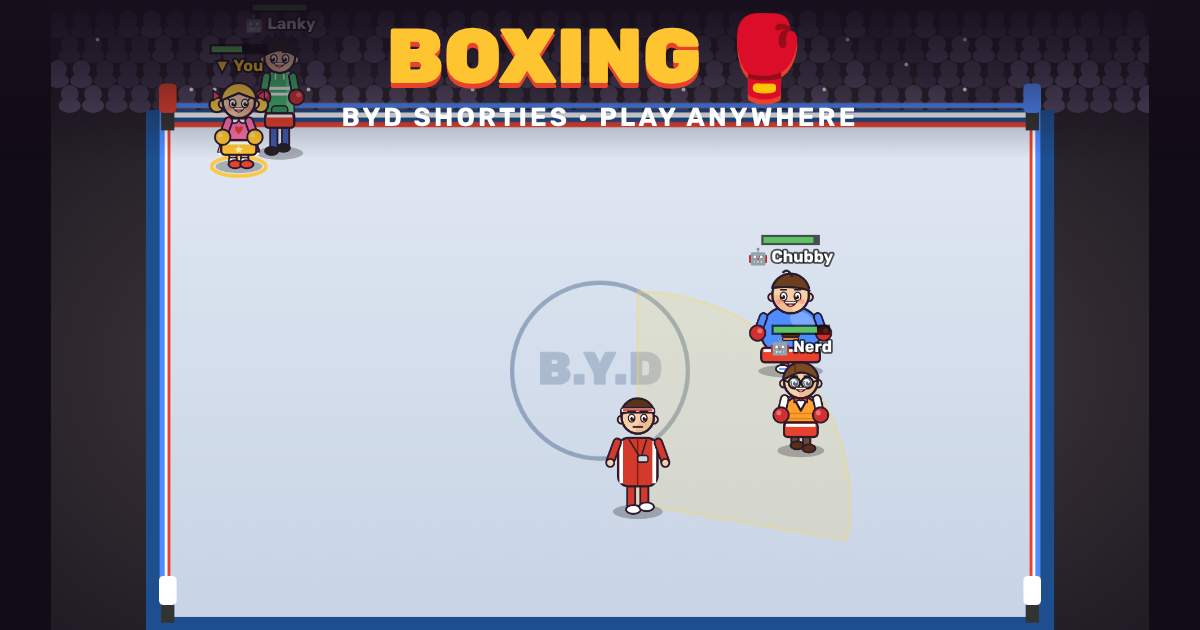
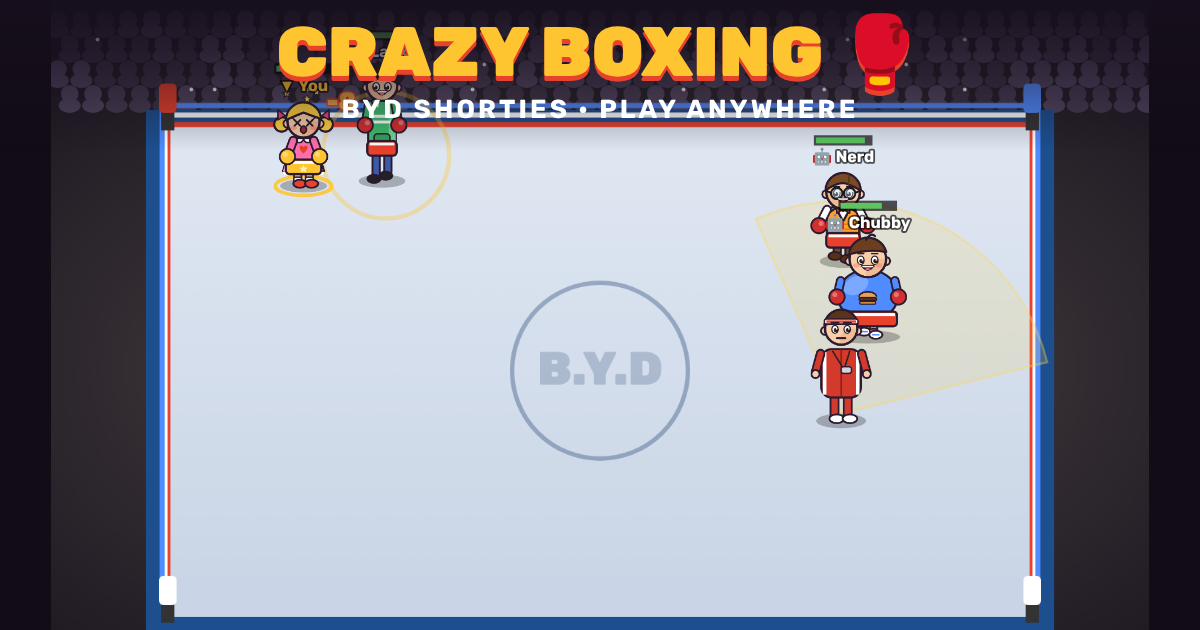
Названия: Crazy Boxing / Сумасшедший бокс / אגרוף משוגע; מי המרושע?
Claude-Session: https://claude.ai/code/session_01Ee1zkkg3PvpSc9RzLguxN7

Changed region(s): [[0.1542, 0.0, 0.8942, 0.8746], [0.3392, 0.3016, 0.37, 0.3317]]

diff --git a/burger/index.html b/burger/index.html
@@ -152,39 +152,39 @@ const params=new URLSearchParams(location.search);
 let FIXED=LOCS[params.get('loc')]?params.get('loc'):'diner';setLoc(FIXED);
 const DIRS={diner:'/burger/',school:'/school/',soccer:'/soccer/',snow:'/snow/',box:'/box/',villain:'/villain/'};
 const L={
- en:{shareV:(n,s)=>`In «Who is the Villain?» 🦹 ${n} won with ${s} stars! Can you spot the villain?`,trapB:'Trap',catchB:'Caught you!',youVil:'🦹 You are the villain!',findVil:'🔍 Find the villain',tipVil:'🦹 You are the villain! Pretend to search, tap 🪤 to drop an invisible trap, best next to keys. Others must not catch you!',tipCrew:'🔑 Collect 15 keys and avoid hidden traps. Think you know the villain? Run up and tap «Caught you!». Wrong guess — you freeze for 5 seconds',vmPark:'🎡 Fun park',vmSpace:'🚀 Space station',resKeys:'🔑 The team opened the exit!',resCaught:n=>`🫵 ${n} caught the villain!`,resTime:'🦹 The villain wins!',wasVil:'The villain was',trapsN:n=>`🪤 Trapped: ${n}`,caughtV:'CAUGHT!',wrongV:'Wrong one!',botsN:'Bots:',shopHintBox:'Each game has its own medals and shorts. Shorts work from the first fight.',shareBox:(n,s)=>`In «Boxing» 🥊 ${n} was the last one standing with ${s} HP! Who can beat that?`,tipBox:'🥊 Tap 💥 to punch. 🥚 «Low blow» hurts more, but only when the referee is looking away: caught twice — disqualified! Last one standing wins',pushBox:'Punch!',lowB:'Low blow',warn:'Warning!',dq:'Disqualified!',ko:'KNOCKOUT!',shopBox:'Shorts shop',noShorts:'No shorts',pickShorts:'Wear shorts next round?',shorts:{cap:'Lightning shorts',ushanka:'Padded shorts',top:'Ninja shorts',crown:'Golden shorts'},title:'Burger Rush',tag:'Up to 4 players. Grab, push, win!',join:'Join game',create:'Create game',name:'Your name',
+ en:{shareV:(n,s)=>`In «Who is the Villain?» 🦹 ${n} won with ${s} stars! Can you spot the villain?`,trapB:'Trap',catchB:'Caught you!',youVil:'🦹 You are the villain!',findVil:'🔍 Find the villain',tipVil:'🦹 You are the villain! Pretend to search, tap 🪤 to drop an invisible trap, best next to keys. Others must not catch you!',tipCrew:'🔑 Collect 15 keys and avoid hidden traps. Think you know the villain? Run up and tap «Caught you!». Wrong guess — you freeze for 5 seconds',vmPark:'🎡 Fun park',vmSpace:'🚀 Space station',resKeys:'🔑 The team opened the exit!',resCaught:n=>`🫵 ${n} caught the villain!`,resTime:'🦹 The villain wins!',wasVil:'The villain was',trapsN:n=>`🪤 Trapped: ${n}`,caughtV:'CAUGHT!',wrongV:'Wrong one!',botsN:'Bots:',shopHintBox:'Each game has its own medals and shorts. Shorts work from the first fight.',shareBox:(n,s)=>`In «Crazy Boxing» 🥊 ${n} was the last one standing with ${s} HP! Who can beat that?`,tipBox:'🥊 Tap 💥 to punch. 🥚 «Low blow» hurts more, but only when the referee is looking away: caught twice — disqualified! Last one standing wins',pushBox:'Punch!',lowB:'Low blow',warn:'Warning!',dq:'Disqualified!',ko:'KNOCKOUT!',shopBox:'Shorts shop',noShorts:'No shorts',pickShorts:'Wear shorts next round?',shorts:{cap:'Lightning shorts',ushanka:'Padded shorts',top:'Ninja shorts',crown:'Golden shorts'},title:'Burger Rush',tag:'Up to 4 players. Grab, push, win!',join:'Join game',create:'Create game',name:'Your name',
   needName:'Type your name so everyone knows who you are.',connecting:'Connecting…',errLib:'The connection library failed to load. Check your internet and refresh.',errConn:"Couldn't connect. Try again in a minute.",
   reload:'Refresh',room:'Room',hostHint:'Invite your friends. Everyone picks a hero.',invite:'Invite on WhatsApp',copy:'Copy link',copied:'Copied',
   waitHost:'Waiting for the host to tap «Start»…',pick:'Pick your hero',free:'free',bot:'bot',you:'you',bots:'Bots on free heroes',start:'Start!',full:'The room is full (4 players).',
   inviteText:"Let's play «Burger Rush» 🍔 ",push:'Push',winner:n=>`${n} is the champion!`,youWin:"You're the champion!",
   again:'Play again',lobbyBtn:'Back to room',againHost:'The host starts a new game',go:'GO!',share:'Brag',
-  shareText:(n,s)=>`In «Burger Rush» 🍔 ${n} won with ${s} burgers! Can you beat that?`,burgers:'burg.',createOwn:'Create your own game',roundN:n=>`Round ${n}`,loc:'Location',locs:{diner:'🍔 Diner',school:'🏫 Classroom',soccer:'⚽ Football',snow:'❄ Snow'},tipSnow:'❄ Tap «Snowball!» — it flies where you run. Hit someone — +1! Hide behind the snowmen. 🌟 The golden mega snowball gives +2. First to 10 hits',pushSnow:'Snowball!',mega:'MEGA SNOWBALL!',shareSnow:(n,s)=>`In «Snow Battle» ❄ ${n} landed ${s} hits! Who's the best shot?`,tipSoccer:'⚽ Run to the ball and tap «Kick!». Score past the goalkeeper! You can push your rivals',pushSoccer:'Kick!',goalTxt:'GOOOAL!',saveTxt:'Save!',shareSoccer:(n,s)=>`In «Bombardier» ⚽ ${n} scored ${s} goals! Who can score more?`,tipSchool:'🦶 Sneak up on a teacher from BEHIND and tap 💥 — kick! Teachers see everything in their cone: get spotted — go to the corner!',corner:'Corner!',ouch:'Ouch!',pushSchool:'Kick!',shareSchool:(n,s)=>`In «Teacher Kick» 🏫 ${n} kicked the teachers ${s} times! 😂 Can you beat that?`,rotate:'🔄 Turn your phone sideways — it plays better',full:'⛶ Full screen',tip:'🍔 Just run into a burger to eat it! 💥 pushes a rival',shop:'Hat shop',shopHint:'Each game has its own medals and hats. Hats work from round 2. In round 1 everyone is equal.',buy:n=>`Buy · ${n} 🏅`,wear:'Wear',wearing:'Wearing ✓',off:'Take off',noHat:'No hat',back:'Back',pickHat:'Wear a hat next round?',need:n=>`Need ${n} 🏅`,bought:'Bought!',hats:{cap:'Cap',ushanka:'Ushanka',top:'Top hat',crown:'Crown'},hatPerk:{cap:'Run 12% faster',ushanka:'Pushes and hits hurt you less',top:'Grab things from further away',crown:'Push harder, 💥 recharges faster'},hp:{diner:{cap:'Run 12% faster',ushanka:'Pushes hurt you less',top:'Burgers pull toward you: grab from afar',crown:'Push harder, 💥 recharges faster'},school:{cap:'Quick escape: half the time in the corner',ushanka:'Long kick: reach teachers from further away',top:'Ninja: teachers notice you only up close',crown:'Royal kick: every 3rd kick counts double'},soccer:{cap:'Cannon: your shots are 25% stronger',ushanka:'Wall: rivals can barely push you',top:'Long leg: kick the ball from further away',crown:'The goalkeeper misses your shots more often'},snow:{cap:'Quick hand: snowballs reload faster',ushanka:'Warm ears: you recover from hits faster',top:'Sniper: your snowballs fly faster and further',crown:'Every 4th snowball is a mega snowball'},box:{cap:'Move 12% faster',ushanka:'Low blows hurt you half as much',top:'The referee spots your low blows only up close',crown:'Your punches are 25% stronger'},villain:{cap:'Run 12% faster',ushanka:'Traps hold you half as long',top:'Keys pull toward you: grab from afar',crown:'A wrong catch freezes you for only 2 seconds'}},tie:'Tie! Replay',out:'Out',stay:'Still in',nextR:'Next round in a few seconds…',medalWin:n=>`🏅 +1 medal! You have ${n}`,medalHave:n=>`Your medals: 🏅 ${n}`,watching:"👀 You're out. Watch who wins!",hostGone:'The host left the game',noRoom:"The room isn't answering. The host probably closed the game.",ownHint:"Create your own room and invite friends. It's free.",allGames:'🎮 All games',leaveHost:'Leave? The game will end for everyone.',mt:{diner:'Burger Rush',school:'Teacher Kick',soccer:'Bombardier',snow:'Snow Battle',box:'Boxing',villain:"Who's the Villain?"},
+  shareText:(n,s)=>`In «Burger Rush» 🍔 ${n} won with ${s} burgers! Can you beat that?`,burgers:'burg.',createOwn:'Create your own game',roundN:n=>`Round ${n}`,loc:'Location',locs:{diner:'🍔 Diner',school:'🏫 Classroom',soccer:'⚽ Football',snow:'❄ Snow'},tipSnow:'❄ Tap «Snowball!» — it flies where you run. Hit someone — +1! Hide behind the snowmen. 🌟 The golden mega snowball gives +2. First to 10 hits',pushSnow:'Snowball!',mega:'MEGA SNOWBALL!',shareSnow:(n,s)=>`In «Snow Battle» ❄ ${n} landed ${s} hits! Who's the best shot?`,tipSoccer:'⚽ Run to the ball and tap «Kick!». Score past the goalkeeper! You can push your rivals',pushSoccer:'Kick!',goalTxt:'GOOOAL!',saveTxt:'Save!',shareSoccer:(n,s)=>`In «Bombardier» ⚽ ${n} scored ${s} goals! Who can score more?`,tipSchool:'🦶 Sneak up on a teacher from BEHIND and tap 💥 — kick! Teachers see everything in their cone: get spotted — go to the corner!',corner:'Corner!',ouch:'Ouch!',pushSchool:'Kick!',shareSchool:(n,s)=>`In «Teacher Kick» 🏫 ${n} kicked the teachers ${s} times! 😂 Can you beat that?`,rotate:'🔄 Turn your phone sideways — it plays better',full:'⛶ Full screen',tip:'🍔 Just run into a burger to eat it! 💥 pushes a rival',shop:'Hat shop',shopHint:'Each game has its own medals and hats. Hats work from round 2. In round 1 everyone is equal.',buy:n=>`Buy · ${n} 🏅`,wear:'Wear',wearing:'Wearing ✓',off:'Take off',noHat:'No hat',back:'Back',pickHat:'Wear a hat next round?',need:n=>`Need ${n} 🏅`,bought:'Bought!',hats:{cap:'Cap',ushanka:'Ushanka',top:'Top hat',crown:'Crown'},hatPerk:{cap:'Run 12% faster',ushanka:'Pushes and hits hurt you less',top:'Grab things from further away',crown:'Push harder, 💥 recharges faster'},hp:{diner:{cap:'Run 12% faster',ushanka:'Pushes hurt you less',top:'Burgers pull toward you: grab from afar',crown:'Push harder, 💥 recharges faster'},school:{cap:'Quick escape: half the time in the corner',ushanka:'Long kick: reach teachers from further away',top:'Ninja: teachers notice you only up close',crown:'Royal kick: every 3rd kick counts double'},soccer:{cap:'Cannon: your shots are 25% stronger',ushanka:'Wall: rivals can barely push you',top:'Long leg: kick the ball from further away',crown:'The goalkeeper misses your shots more often'},snow:{cap:'Quick hand: snowballs reload faster',ushanka:'Warm ears: you recover from hits faster',top:'Sniper: your snowballs fly faster and further',crown:'Every 4th snowball is a mega snowball'},box:{cap:'Move 12% faster',ushanka:'Low blows hurt you half as much',top:'The referee spots your low blows only up close',crown:'Your punches are 25% stronger'},villain:{cap:'Run 12% faster',ushanka:'Traps hold you half as long',top:'Keys pull toward you: grab from afar',crown:'A wrong catch freezes you for only 2 seconds'}},tie:'Tie! Replay',out:'Out',stay:'Still in',nextR:'Next round in a few seconds…',medalWin:n=>`🏅 +1 medal! You have ${n}`,medalHave:n=>`Your medals: 🏅 ${n}`,watching:"👀 You're out. Watch who wins!",hostGone:'The host left the game',noRoom:"The room isn't answering. The host probably closed the game.",ownHint:"Create your own room and invite friends. It's free.",allGames:'🎮 All games',leaveHost:'Leave? The game will end for everyone.',mt:{diner:'Burger Rush',school:'Teacher Kick',soccer:'Bombardier',snow:'Snow Battle',box:'Crazy Boxing',villain:"Who's the Villain?"},
   mtag:{diner:'Up to 4 players. 7 burgers per round: grab and push! Fewer than the leader — you are out, until one champion is left.',school:'Up to 4 players. Sneak up behind a teacher and kick! Get spotted — go to the corner. Most kicks wins.',soccer:'Up to 4 players. One ball, a big goal and the PE teacher in goal. Score the most and become champion!',snow:'Up to 4 players. Snowballs, snowmen to hide behind and a golden mega snowball. Best shot wins!',box:'Up to 4 players, all against all. Punch, dodge, and land a low blow when the referee is not looking. Caught twice — disqualified! Last one standing wins.',villain:'Up to 4 players. One of you is a secret villain who hides nasty traps. Collect 15 keys, avoid the traps and catch the villain!'},
   inviteM:{diner:"Let's play «Burger Rush» 🍔 Who grabs the most burgers? ",school:"Let's play «Teacher Kick» 🏫 Who kicks the teachers the most? ",soccer:"Let's play «Bombardier» ⚽ Who scores the most? ",snow:"Let's play «Snow Battle» ❄ Who's the best shot? ",box:"Let's box! 🥊 Last one standing wins: ",villain:"Let's play «Who's the Villain?» 🦹 Find the villain before it traps you: "},
   other:'EN',
   names:{girl:'Girl',fat:'Chubby',tall:'Lanky',nerd:'Nerd'},
   perks:{girl:'Fast and nimble',fat:'Slow, but pushes the hardest',tall:'The fastest, weak push',nerd:'Grabs things from afar'}},
- ru:{shareV:(n,s)=>`В «Кто злодей?» 🦹 победил(а) ${n}, звёзд: ${s}! А ты вычислишь злодея?`,trapB:'Капкан',catchB:'Поймал!',youVil:'🦹 Ты злодей!',findVil:'🔍 Найди злодея',tipVil:'🦹 Ты злодей! Делай вид, что ищешь ключи, жми 🪤 — оставишь невидимый капкан, лучше всего возле ключей. Главное, чтобы тебя не поймали!',tipCrew:'🔑 Собери 15 ключей и обходи невидимые капканы. Знаешь, кто злодей? Подбеги и жми «Поймал!». Ошибёшься — замрёшь на 5 секунд',vmPark:'🎡 Парк аттракционов',vmSpace:'🚀 Космическая станция',resKeys:'🔑 Команда открыла выход!',resCaught:n=>`🫵 ${n} поймал(а) злодея!`,resTime:'🦹 Злодей победил!',wasVil:'Злодеем был',trapsN:n=>`🪤 Попались в капканы: ${n}`,caughtV:'ПОЙМАЛ!',wrongV:'Мимо!',botsN:'Ботов:',shopHintBox:'В каждой игре свои медали и шорты. Шорты работают с первого боя.',shareBox:(n,s)=>`В «Боксе» 🥊 ${n} остался последним на ногах, жизни ${s}! Кто сильнее?`,tipBox:'🥊 Жми 💥 — удар. 🥚 «По яйцам» бьёт сильнее, но только пока судья отвернулся: заметит 2 раза — дисквалификация! Побеждает последний на ногах',pushBox:'Удар!',lowB:'По яйцам',warn:'Предупреждение!',dq:'Дисквалификация!',ko:'НОКАУТ!',shopBox:'Магазин шорт',noShorts:'Без шорт',pickShorts:'Надеть шорты на следующий раунд?',shorts:{cap:'Шорты-молнии',ushanka:'Шорты с защитой',top:'Шорты ниндзя',crown:'Золотые шорты'},title:'Бургер-гонка',tag:'До 4 игроков. На поле 7 бургеров. Хватай, толкайся! Кто собрал меньше лидера — вылетает, ничья — переигровка, пока не останется один чемпион.',join:'Войти в игру',create:'Создать игру',name:'Твоё имя',
+ ru:{shareV:(n,s)=>`В «Кто злодей?» 🦹 победил(а) ${n}, звёзд: ${s}! А ты вычислишь злодея?`,trapB:'Капкан',catchB:'Поймал!',youVil:'🦹 Ты злодей!',findVil:'🔍 Найди злодея',tipVil:'🦹 Ты злодей! Делай вид, что ищешь ключи, жми 🪤 — оставишь невидимый капкан, лучше всего возле ключей. Главное, чтобы тебя не поймали!',tipCrew:'🔑 Собери 15 ключей и обходи невидимые капканы. Знаешь, кто злодей? Подбеги и жми «Поймал!». Ошибёшься — замрёшь на 5 секунд',vmPark:'🎡 Парк аттракционов',vmSpace:'🚀 Космическая станция',resKeys:'🔑 Команда открыла выход!',resCaught:n=>`🫵 ${n} поймал(а) злодея!`,resTime:'🦹 Злодей победил!',wasVil:'Злодеем был',trapsN:n=>`🪤 Попались в капканы: ${n}`,caughtV:'ПОЙМАЛ!',wrongV:'Мимо!',botsN:'Ботов:',shopHintBox:'В каждой игре свои медали и шорты. Шорты работают с первого боя.',shareBox:(n,s)=>`В «Сумасшедшем боксе» 🥊 ${n} остался последним на ногах, жизни ${s}! Кто сильнее?`,tipBox:'🥊 Жми 💥 — удар. 🥚 «По яйцам» бьёт сильнее, но только пока судья отвернулся: заметит 2 раза — дисквалификация! Побеждает последний на ногах',pushBox:'Удар!',lowB:'По яйцам',warn:'Предупреждение!',dq:'Дисквалификация!',ko:'НОКАУТ!',shopBox:'Магазин шорт',noShorts:'Без шорт',pickShorts:'Надеть шорты на следующий раунд?',shorts:{cap:'Шорты-молнии',ushanka:'Шорты с защитой',top:'Шорты ниндзя',crown:'Золотые шорты'},title:'Бургер-гонка',tag:'До 4 игроков. На поле 7 бургеров. Хватай, толкайся! Кто собрал меньше лидера — вылетает, ничья — переигровка, пока не останется один чемпион.',join:'Войти в игру',create:'Создать игру',name:'Твоё имя',
   needName:'Напиши имя, чтобы все видели, кто ты.',connecting:'Подключаюсь…',errLib:'Не загрузилась библиотека связи. Проверь интернет и обнови страницу.',errConn:'Не получилось подключиться. Попробуй ещё раз через минуту.',
   reload:'Обновить',room:'Комната',hostHint:'Позови друзей. Каждый выбирает своего героя.',invite:'Позвать в WhatsApp',copy:'Копировать ссылку',copied:'Скопировано',
   waitHost:'Ждём, пока организатор нажмёт «Старт»…',pick:'Выбери героя',free:'свободно',bot:'бот',you:'ты',bots:'Боты на свободных героях',start:'Старт!',full:'Комната заполнена (4 игрока).',
   inviteText:'Го в «Бургер-гонку» 🍔 Кто соберёт больше бургеров за 30 секунд? ',push:'Толкнуть',winner:n=>`${n} — чемпион!`,youWin:'Ты чемпион!',
   again:'Ещё раз',lobbyBtn:'В комнату',againHost:'Новую игру запускает организатор',go:'ВПЕРЁД!',share:'Похвастаться',
-  shareText:(n,s)=>`В «Бургер-гонке» 🍔 победил(а) ${n} — ${s} бургеров! А ты сможешь больше?`,burgers:'бург.',createOwn:'Создать свою игру',roundN:n=>`Раунд ${n}`,loc:'Локация',locs:{diner:'🍔 Бургерная',school:'🏫 Класс',soccer:'⚽ Футбол',snow:'❄ Снежки'},tipSnow:'❄ Жми «Снежок!» — летит туда, куда бежишь. Попал — +1! Прячься за снеговиками. 🌟 Золотой мега-снежок даёт +2. До 10 попаданий',pushSnow:'Снежок!',mega:'МЕГА-СНЕЖОК!',shareSnow:(n,s)=>`В «Снежной битве» ❄ ${n} попал(а) ${s} раз! Кто метче?`,tipSoccer:'⚽ Подбеги к мячу и жми «Удар!». Забей мимо вратаря! Соперников можно толкать',pushSoccer:'Удар!',goalTxt:'ГОООЛ!',saveTxt:'Сейв!',shareSoccer:(n,s)=>`В «Бомбардире» ⚽ ${n} забил(а) ${s} голов! Кто сможет больше?`,tipSchool:'🦶 Подкрадись к учителю СЗАДИ и жми 💥 — поджопник! Учитель видит всё в своём конусе: заметит — в угол!',corner:'В угол!',ouch:'Ай!',pushSchool:'Пинок!',shareSchool:(n,s)=>`В «Teacher Kick» 🏫 ${n} отвесил(а) учителям ${s} поджопников! 😂 А ты сможешь?`,rotate:'🔄 Поверни телефон горизонтально, так удобнее',full:'⛶ На весь экран',tip:'🍔 Подбеги к бургеру, и он съестся сам! 💥 толкает соперника',shop:'Магазин шапок',shopHint:'В каждой игре свои медали и шапки. Шапки начинают действовать со 2-го раунда. В 1-м раунде все на равных.',buy:n=>`Купить · ${n} 🏅`,wear:'Надеть',wearing:'Надета ✓',off:'Снять',noHat:'Без шапки',back:'Назад',pickHat:'Надеть шапку на следующий раунд?',need:n=>`Нужно ${n} 🏅`,bought:'Куплено!',hats:{cap:'Кепка',ushanka:'Ушанка',top:'Цилиндр',crown:'Корона'},hatPerk:{cap:'Бегаешь на 12% быстрее',ushanka:'Тебя толкают слабее, звёздочки проходят быстрее',top:'Бургеры притягиваются: хватаешь издалека',crown:'Толкаешь сильнее, 💥 перезаряжается быстрее'},hp:{diner:{cap:'Бегаешь на 12% быстрее',ushanka:'Тебя толкают слабее, звёздочки проходят быстрее',top:'Бургеры притягиваются: хватаешь издалека',crown:'Толкаешь сильнее, 💥 перезаряжается быстрее'},school:{cap:'Шустрик: в углу стоишь вдвое меньше',ushanka:'Длинный пинок: достаёшь учителя издалека',top:'Невидимка: учителя замечают тебя только вблизи',crown:'Королевский пинок: каждый 3-й пинок считается за два'},soccer:{cap:'Пушка: удар на 25% сильнее',ushanka:'Стенка: тебя почти не сдвинуть',top:'Длинная нога: бьёшь по мячу издалека',crown:'Вратарь чаще пропускает твои удары'},snow:{cap:'Быстрая рука: снежки перезаряжаются быстрее',ushanka:'Тёплые уши: после попадания приходишь в себя быстрее',top:'Снайпер: твои снежки летят быстрее и дальше',crown:'Каждый 4-й снежок — мега-снежок'},box:{cap:'Двигаешься на 12% быстрее',ushanka:'Удары по яйцам тебе вдвое слабее',top:'Судья замечает твой подлый удар только вблизи',crown:'Твои удары на 25% сильнее'},villain:{cap:'Бегаешь на 12% быстрее',ushanka:'Капканы держат тебя вдвое меньше',top:'Ключи притягиваются: хватаешь издалека',crown:'Ошибся с поимкой — замираешь всего на 2 секунды'}},tie:'Ничья! Переигровка',out:'Вылетают',stay:'Играют дальше',nextR:'Следующий раунд через пару секунд…',medalWin:n=>`🏅 +1 медаль! Всего у тебя: ${n}`,medalHave:n=>`Твои медали: 🏅 ${n}`,watching:'👀 Ты вылетел. Смотри, кто победит!',hostGone:'Организатор вышел из игры',noRoom:'Комната не отвечает. Похоже, организатор уже закрыл игру.',ownHint:'Создай свою комнату и позови друзей. Это бесплатно.',allGames:'🎮 Все игры',leaveHost:'Выйти? Игра закончится у всех.',mt:{diner:'Бургер-гонка',school:'Teacher Kick',soccer:'Бомбардир',snow:'Снежная битва',box:'Бокс',villain:'Кто злодей?'},
+  shareText:(n,s)=>`В «Бургер-гонке» 🍔 победил(а) ${n} — ${s} бургеров! А ты сможешь больше?`,burgers:'бург.',createOwn:'Создать свою игру',roundN:n=>`Раунд ${n}`,loc:'Локация',locs:{diner:'🍔 Бургерная',school:'🏫 Класс',soccer:'⚽ Футбол',snow:'❄ Снежки'},tipSnow:'❄ Жми «Снежок!» — летит туда, куда бежишь. Попал — +1! Прячься за снеговиками. 🌟 Золотой мега-снежок даёт +2. До 10 попаданий',pushSnow:'Снежок!',mega:'МЕГА-СНЕЖОК!',shareSnow:(n,s)=>`В «Снежной битве» ❄ ${n} попал(а) ${s} раз! Кто метче?`,tipSoccer:'⚽ Подбеги к мячу и жми «Удар!». Забей мимо вратаря! Соперников можно толкать',pushSoccer:'Удар!',goalTxt:'ГОООЛ!',saveTxt:'Сейв!',shareSoccer:(n,s)=>`В «Бомбардире» ⚽ ${n} забил(а) ${s} голов! Кто сможет больше?`,tipSchool:'🦶 Подкрадись к учителю СЗАДИ и жми 💥 — поджопник! Учитель видит всё в своём конусе: заметит — в угол!',corner:'В угол!',ouch:'Ай!',pushSchool:'Пинок!',shareSchool:(n,s)=>`В «Teacher Kick» 🏫 ${n} отвесил(а) учителям ${s} поджопников! 😂 А ты сможешь?`,rotate:'🔄 Поверни телефон горизонтально, так удобнее',full:'⛶ На весь экран',tip:'🍔 Подбеги к бургеру, и он съестся сам! 💥 толкает соперника',shop:'Магазин шапок',shopHint:'В каждой игре свои медали и шапки. Шапки начинают действовать со 2-го раунда. В 1-м раунде все на равных.',buy:n=>`Купить · ${n} 🏅`,wear:'Надеть',wearing:'Надета ✓',off:'Снять',noHat:'Без шапки',back:'Назад',pickHat:'Надеть шапку на следующий раунд?',need:n=>`Нужно ${n} 🏅`,bought:'Куплено!',hats:{cap:'Кепка',ushanka:'Ушанка',top:'Цилиндр',crown:'Корона'},hatPerk:{cap:'Бегаешь на 12% быстрее',ushanka:'Тебя толкают слабее, звёздочки проходят быстрее',top:'Бургеры притягиваются: хватаешь издалека',crown:'Толкаешь сильнее, 💥 перезаряжается быстрее'},hp:{diner:{cap:'Бегаешь на 12% быстрее',ushanka:'Тебя толкают слабее, звёздочки проходят быстрее',top:'Бургеры притягиваются: хватаешь издалека',crown:'Толкаешь сильнее, 💥 перезаряжается быстрее'},school:{cap:'Шустрик: в углу стоишь вдвое меньше',ushanka:'Длинный пинок: достаёшь учителя издалека',top:'Невидимка: учителя замечают тебя только вблизи',crown:'Королевский пинок: каждый 3-й пинок считается за два'},soccer:{cap:'Пушка: удар на 25% сильнее',ushanka:'Стенка: тебя почти не сдвинуть',top:'Длинная нога: бьёшь по мячу издалека',crown:'Вратарь чаще пропускает твои удары'},snow:{cap:'Быстрая рука: снежки перезаряжаются быстрее',ushanka:'Тёплые уши: после попадания приходишь в себя быстрее',top:'Снайпер: твои снежки летят быстрее и дальше',crown:'Каждый 4-й снежок — мега-снежок'},box:{cap:'Двигаешься на 12% быстрее',ushanka:'Удары по яйцам тебе вдвое слабее',top:'Судья замечает твой подлый удар только вблизи',crown:'Твои удары на 25% сильнее'},villain:{cap:'Бегаешь на 12% быстрее',ushanka:'Капканы держат тебя вдвое меньше',top:'Ключи притягиваются: хватаешь издалека',crown:'Ошибся с поимкой — замираешь всего на 2 секунды'}},tie:'Ничья! Переигровка',out:'Вылетают',stay:'Играют дальше',nextR:'Следующий раунд через пару секунд…',medalWin:n=>`🏅 +1 медаль! Всего у тебя: ${n}`,medalHave:n=>`Твои медали: 🏅 ${n}`,watching:'👀 Ты вылетел. Смотри, кто победит!',hostGone:'Организатор вышел из игры',noRoom:'Комната не отвечает. Похоже, организатор уже закрыл игру.',ownHint:'Создай свою комнату и позови друзей. Это бесплатно.',allGames:'🎮 Все игры',leaveHost:'Выйти? Игра закончится у всех.',mt:{diner:'Бургер-гонка',school:'Teacher Kick',soccer:'Бомбардир',snow:'Снежная битва',box:'Сумасшедший бокс',villain:'Кто злодей?'},
   mtag:{diner:'До 4 игроков. 7 бургеров на раунд: хватай и толкайся! Кто меньше лидера — вылетает, пока не останется один чемпион.',school:'До 4 игроков. Подкрадись к учителю сзади и отвесь поджопник! Попадёшься ему на глаза — в угол. Кто больше всех — чемпион.',soccer:'До 4 игроков. Один мяч, большие ворота и вратарь-физрук. Забей больше всех и стань чемпионом!',snow:'До 4 игроков. Снежки, снеговики-укрытия и золотой мега-снежок. Самый меткий — чемпион!',box:'До 4 игроков, все против всех. Бей, уворачивайся и бей по яйцам, когда судья отвернулся. Заметит 2 раза — дисквалификация! Побеждает последний на ногах.',villain:'До 4 игроков. Один из вас тайный злодей и прячет капканы с гадостями. Соберите 15 ключей, обходите ловушки и поймайте злодея!'},
   inviteM:{diner:'Го в «Бургер-гонку» 🍔 Кто соберёт больше бургеров? ',school:'Го в «Teacher Kick» 🏫 Кто отвесит учителям больше поджопников? ',soccer:'Го в «Бомбардир» ⚽ Кто забьёт больше голов? ',snow:'Го в «Снежную битву» ❄ Кто самый меткий? ',box:'Го боксировать! 🥊 Побеждает последний на ногах: ',villain:'Го в «Кто злодей?» 🦹 Найди злодея, пока он не поймал тебя в капкан: '},
   other:'עברית',
   names:{girl:'Девочка',fat:'Пухляш',tall:'Длинный',nerd:'Очкарик'},
   perks:{girl:'Быстрая и ловкая',fat:'Медленный, но толкается сильнее всех',tall:'Самый быстрый, толкается слабо',nerd:'Хватает бургеры издалека'}},
- he:{shareV:(n,s)=>`ב«מי הנבל?» 🦹 ניצח/ה ${n} עם ${s} כוכבים! תצליחו לגלות את הנבל?`,trapB:'מלכודת',catchB:'תפסתי!',youVil:'🦹 אתה הנבל!',findVil:'🔍 מצאו את הנבל',tipVil:'🦹 אתה הנבל! תעשה כאילו אתה מחפש מפתחות, לחץ 🪤 ותשאיר מלכודת בלתי נראית, הכי טוב ליד מפתחות. העיקר שלא יתפסו אותך!',tipCrew:'🔑 אספו 15 מפתחות והיזהרו ממלכודות נסתרות. יודעים מי הנבל? רוצו אליו ולחצו «תפסתי!». טעיתם — קופאים ל־5 שניות',vmPark:'🎡 פארק שעשועים',vmSpace:'🚀 תחנת חלל',resKeys:'🔑 הקבוצה פתחה את היציאה!',resCaught:n=>`🫵 ${n} תפס/ה את הנבל!`,resTime:'🦹 הנבל ניצח!',wasVil:'הנבל היה',trapsN:n=>`🪤 נלכדו: ${n}`,caughtV:'נתפס!',wrongV:'לא הוא!',botsN:'בוטים:',shopHintBox:'לכל משחק מדליות ומכנסונים משלו. המכנסונים עובדים מהקרב הראשון.',shareBox:(n,s)=>`ב«אגרוף» 🥊 ${n} נשאר/ה אחרון/ה על הרגליים עם ${s} חיים! מי חזק יותר?`,tipBox:'🥊 לחצו 💥 — מכה. 🥚 «מכה נמוכה» חזקה יותר, אבל רק כשהשופט לא מסתכל: נתפסתם פעמיים — פסילה! האחרון שעומד מנצח',pushBox:'מכה!',lowB:'מכה נמוכה',warn:'אזהרה!',dq:'פסילה!',ko:'נוקאאוט!',shopBox:'חנות המכנסונים',noShorts:'בלי מכנסונים',pickShorts:'ללבוש מכנסונים לסיבוב הבא?',shorts:{cap:'מכנסוני ברק',ushanka:'מכנסונים מרופדים',top:'מכנסוני נינג׳ה',crown:'מכנסוני זהב'},title:'מרוץ ההמבורגרים',tag:'עד 4 שחקנים. 7 המבורגרים על הרצפה. תופסים ודוחפים! מי שאסף פחות מהמוביל — יוצא, בתיקו — סיבוב נוסף, עד שנשאר אלוף אחד.',join:'כניסה למשחק',create:'יצירת משחק',name:'השם שלך',
+ he:{shareV:(n,s)=>`ב«מי המרושע?» 🦹 ניצח/ה ${n} עם ${s} כוכבים! תצליחו לגלות את המרושע?`,trapB:'מלכודת',catchB:'תפסתי!',youVil:'🦹 אתה המרושע!',findVil:'🔍 מצאו את המרושע',tipVil:'🦹 אתה המרושע! תעשה כאילו אתה מחפש מפתחות, לחץ 🪤 ותשאיר מלכודת בלתי נראית, הכי טוב ליד מפתחות. העיקר שלא יתפסו אותך!',tipCrew:'🔑 אספו 15 מפתחות והיזהרו ממלכודות נסתרות. יודעים מי המרושע? רוצו אליו ולחצו «תפסתי!». טעיתם — קופאים ל־5 שניות',vmPark:'🎡 פארק שעשועים',vmSpace:'🚀 תחנת חלל',resKeys:'🔑 הקבוצה פתחה את היציאה!',resCaught:n=>`🫵 ${n} תפס/ה את המרושע!`,resTime:'🦹 המרושע ניצח!',wasVil:'המרושע היה',trapsN:n=>`🪤 נלכדו: ${n}`,caughtV:'נתפס!',wrongV:'לא הוא!',botsN:'בוטים:',shopHintBox:'לכל משחק מדליות ומכנסונים משלו. המכנסונים עובדים מהקרב הראשון.',shareBox:(n,s)=>`ב«אגרוף משוגע» 🥊 ${n} נשאר/ה אחרון/ה על הרגליים עם ${s} חיים! מי חזק יותר?`,tipBox:'🥊 לחצו 💥 — מכה. 🥚 «מכה נמוכה» חזקה יותר, אבל רק כשהשופט לא מסתכל: נתפסתם פעמיים — פסילה! האחרון שעומד מנצח',pushBox:'מכה!',lowB:'מכה נמוכה',warn:'אזהרה!',dq:'פסילה!',ko:'נוקאאוט!',shopBox:'חנות המכנסונים',noShorts:'בלי מכנסונים',pickShorts:'ללבוש מכנסונים לסיבוב הבא?',shorts:{cap:'מכנסוני ברק',ushanka:'מכנסונים מרופדים',top:'מכנסוני נינג׳ה',crown:'מכנסוני זהב'},title:'מרוץ ההמבורגרים',tag:'עד 4 שחקנים. 7 המבורגרים על הרצפה. תופסים ודוחפים! מי שאסף פחות מהמוביל — יוצא, בתיקו — סיבוב נוסף, עד שנשאר אלוף אחד.',join:'כניסה למשחק',create:'יצירת משחק',name:'השם שלך',
   needName:'כתבו שם, כדי שכולם יידעו מי אתם.',connecting:'מתחבר…',errLib:'ספריית החיבור לא נטענה. בדקו את האינטרנט ורעננו.',errConn:'לא הצלחנו להתחבר. נסו שוב בעוד דקה.',
   reload:'רענון',room:'חדר',hostHint:'הזמינו חברים. כל אחד בוחר דמות.',invite:'הזמנה בוואטסאפ',copy:'העתקת קישור',copied:'הועתק',
   waitHost:'מחכים שהמארגן ילחץ «התחלה»…',pick:'בחרו דמות',free:'פנוי',bot:'בוט',you:'אני',bots:'בוטים על דמויות פנויות',start:'התחלה!',full:'החדר מלא (4 שחקנים).',
   inviteText:'בואו ל«מרוץ ההמבורגרים» 🍔 מי יאסוף הכי הרבה המבורגרים ב־30 שניות? ',push:'דחיפה',winner:n=>`${n} — האלוף!`,youWin:'אתה האלוף!',
   again:'עוד פעם',lobbyBtn:'לחדר',againHost:'משחק חדש מפעיל המארגן',go:'!קדימה',share:'להשוויץ',
-  shareText:(n,s)=>`ב«מרוץ ההמבורגרים» 🍔 ניצח/ה ${n} עם ${s} המבורגרים! תוכלו יותר?`,burgers:'המב׳',createOwn:'ליצור משחק משלי',roundN:n=>`סיבוב ${n}`,loc:'מקום',locs:{diner:'🍔 ההמבורגרייה',school:'🏫 הכיתה',soccer:'⚽ כדורגל',snow:'❄ כדורי שלג'},tipSnow:'❄ לחצו «כדור שלג!» — הוא עף לכיוון הריצה. פגעתם — 1+! תתחבאו מאחורי אנשי השלג. 🌟 כדור הזהב נותן 2+',pushSnow:'כדור שלג!',mega:'!מגה־כדור',shareSnow:(n,s)=>`ב«קרב כדורי שלג» ❄ ${n} פגע/ה ${s} פעמים! מי יותר מדויק?`,tipSoccer:'⚽ רוצו לכדור ולחצו «בעיטה!». תבקיעו ליד השוער! אפשר לדחוף יריבים',pushSoccer:'בעיטה!',goalTxt:'!גוללל',saveTxt:'!הצלה',shareSoccer:(n,s)=>`ב«בומברדיר» ⚽ ${n} הבקיע/ה ${s} גולים! מי יבקיע יותר?`,tipSchool:'🦶 התגנבו למורה מאחור ולחצו 💥 — בעיטה בטוסיק! המורה רואה כל מה שבתוך המשולש שלו: יראה אתכם — לפינה!',corner:'לפינה!',ouch:'אוי!',pushSchool:'בעיטה!',shareSchool:(n,s)=>`ב«Teacher Kick» 🏫 ${n} נתן/ה למורים ${s} בעיטות בטוסיק! 😂 תוכלו יותר?`,rotate:'🔄 סובבו את הטלפון לרוחב, ככה נוח יותר',full:'⛶ מסך מלא',tip:'🍔 רוצו אל ההמבורגר והוא נאכל לבד! 💥 דוחף יריב',shop:'חנות הכובעים',shopHint:'לכל משחק מדליות וכובעים משלו. הכובעים פועלים מהסיבוב השני. בסיבוב הראשון כולם שווים.',buy:n=>`לקנות · ${n} 🏅`,wear:'לחבוש',wearing:'חבוש ✓',off:'להוריד',noHat:'בלי כובע',back:'חזרה',pickHat:'לחבוש כובע לסיבוב הבא?',need:n=>`צריך ${n} 🏅`,bought:'נקנה!',hats:{cap:'כובע מצחייה',ushanka:'אושנקה',top:'מגבעת',crown:'כתר'},hatPerk:{cap:'רץ מהר יותר ב־12%',ushanka:'דוחפים אותך חלש יותר, מתאושש מהר',top:'ההמבורגרים נמשכים אליך: תופס מרחוק',crown:'דוחף חזק יותר, 💥 נטען מהר'},hp:{diner:{cap:'רץ מהר יותר ב־12%',ushanka:'דוחפים אותך חלש יותר, מתאושש מהר',top:'ההמבורגרים נמשכים אליך: תופס מרחוק',crown:'דוחף חזק יותר, 💥 נטען מהר'},school:{cap:'זריז: עומד בפינה חצי זמן',ushanka:'בעיטה ארוכה: מגיע למורה מרחוק',top:'נינג׳ה: המורים שמים לב אליך רק מקרוב',crown:'בעיטה מלכותית: כל בעיטה שלישית שווה כפול'},soccer:{cap:'תותח: הבעיטה חזקה יותר ב־25%',ushanka:'חומה: כמעט אי אפשר להזיז אותך',top:'רגל ארוכה: בועט בכדור מרחוק',crown:'השוער מפספס את הבעיטות שלך יותר'},snow:{cap:'יד מהירה: כדורי השלג נטענים מהר',ushanka:'אוזניים חמות: מתאושש מהר אחרי פגיעה',top:'צלף: כדורי השלג שלך עפים מהר ורחוק יותר',crown:'כל כדור שלג רביעי הוא מגה־כדור'},box:{cap:'זז מהר יותר ב־12%',ushanka:'מכות נמוכות כואבות לך חצי',top:'השופט רואה את המכה הנמוכה שלך רק מקרוב',crown:'המכות שלך חזקות ב־25%'},villain:{cap:'רץ מהר יותר ב־12%',ushanka:'מלכודות מחזיקות אותך חצי זמן',top:'המפתחות נמשכים אליך: תופס מרחוק',crown:'טעית בתפיסה — קופא רק ל־2 שניות'}},tie:'תיקו! סיבוב נוסף',out:'יוצאים',stay:'ממשיכים לשחק',nextR:'הסיבוב הבא בעוד כמה שניות…',medalWin:n=>`🏅 +1 מדליה! סה״כ אצלך: ${n}`,medalHave:n=>`המדליות שלך: 🏅 ${n}`,watching:'👀 יצאת. תראה מי ינצח!',hostGone:'המארגן יצא מהמשחק',noRoom:'החדר לא עונה. כנראה המארגן כבר סגר את המשחק.',ownHint:'צרו חדר משלכם והזמינו חברים. זה בחינם.',allGames:'🎮 כל המשחקים',leaveHost:'לצאת? המשחק ייגמר לכולם.',mt:{diner:'מרוץ ההמבורגרים',school:'Teacher Kick',soccer:'בומברדיר',snow:'קרב כדורי שלג',box:'אגרוף',villain:'מי הנבל?'},
-  mtag:{diner:'עד 4 שחקנים. 7 המבורגרים בסיבוב: תופסים ודוחפים! מי שפחות מהמוביל — יוצא, עד שנשאר אלוף אחד.',school:'עד 4 שחקנים. מתגנבים למורה מאחור ונותנים בעיטה בטוסיק! המורה רואה אתכם — לפינה. מי שהכי הרבה — אלוף.',soccer:'עד 4 שחקנים. כדור אחד, שער גדול ושוער המורה להתעמלות. תבקיעו הכי הרבה ותהיו אלופים!',snow:'עד 4 שחקנים. כדורי שלג, אנשי שלג למחסה וכדור זהב מגה. המדויק ביותר — אלוף!',box:'עד 4 שחקנים, כולם נגד כולם. תכו, תתחמקו ותנו מכה נמוכה כשהשופט לא מסתכל. נתפסתם פעמיים — פסילה! האחרון שעומד מנצח.',villain:'עד 4 שחקנים. אחד מכם הוא נבל סודי שמחביא מלכודות. אספו 15 מפתחות, היזהרו מהמלכודות ותפסו את הנבל!'},
-  inviteM:{diner:'בואו ל«מרוץ ההמבורגרים» 🍔 מי יאסוף הכי הרבה? ',school:'בואו ל«Teacher Kick» 🏫 מי ייתן למורים הכי הרבה בעיטות? ',soccer:'בואו ל«בומברדיר» ⚽ מי יבקיע הכי הרבה? ',snow:'בואו ל«קרב כדורי שלג» ❄ מי הכי מדויק? ',box:'בואו לאגרוף! 🥊 האחרון שעומד מנצח: ',villain:'בואו ל«מי הנבל?» 🦹 מצאו את הנבל לפני שהוא ילכוד אתכם: '},
+  shareText:(n,s)=>`ב«מרוץ ההמבורגרים» 🍔 ניצח/ה ${n} עם ${s} המבורגרים! תוכלו יותר?`,burgers:'המב׳',createOwn:'ליצור משחק משלי',roundN:n=>`סיבוב ${n}`,loc:'מקום',locs:{diner:'🍔 ההמבורגרייה',school:'🏫 הכיתה',soccer:'⚽ כדורגל',snow:'❄ כדורי שלג'},tipSnow:'❄ לחצו «כדור שלג!» — הוא עף לכיוון הריצה. פגעתם — 1+! תתחבאו מאחורי אנשי השלג. 🌟 כדור הזהב נותן 2+',pushSnow:'כדור שלג!',mega:'!מגה־כדור',shareSnow:(n,s)=>`ב«קרב כדורי שלג» ❄ ${n} פגע/ה ${s} פעמים! מי יותר מדויק?`,tipSoccer:'⚽ רוצו לכדור ולחצו «בעיטה!». תבקיעו ליד השוער! אפשר לדחוף יריבים',pushSoccer:'בעיטה!',goalTxt:'!גוללל',saveTxt:'!הצלה',shareSoccer:(n,s)=>`ב«בומברדיר» ⚽ ${n} הבקיע/ה ${s} גולים! מי יבקיע יותר?`,tipSchool:'🦶 התגנבו למורה מאחור ולחצו 💥 — בעיטה בטוסיק! המורה רואה כל מה שבתוך המשולש שלו: יראה אתכם — לפינה!',corner:'לפינה!',ouch:'אוי!',pushSchool:'בעיטה!',shareSchool:(n,s)=>`ב«Teacher Kick» 🏫 ${n} נתן/ה למורים ${s} בעיטות בטוסיק! 😂 תוכלו יותר?`,rotate:'🔄 סובבו את הטלפון לרוחב, ככה נוח יותר',full:'⛶ מסך מלא',tip:'🍔 רוצו אל ההמבורגר והוא נאכל לבד! 💥 דוחף יריב',shop:'חנות הכובעים',shopHint:'לכל משחק מדליות וכובעים משלו. הכובעים פועלים מהסיבוב השני. בסיבוב הראשון כולם שווים.',buy:n=>`לקנות · ${n} 🏅`,wear:'לחבוש',wearing:'חבוש ✓',off:'להוריד',noHat:'בלי כובע',back:'חזרה',pickHat:'לחבוש כובע לסיבוב הבא?',need:n=>`צריך ${n} 🏅`,bought:'נקנה!',hats:{cap:'כובע מצחייה',ushanka:'אושנקה',top:'מגבעת',crown:'כתר'},hatPerk:{cap:'רץ מהר יותר ב־12%',ushanka:'דוחפים אותך חלש יותר, מתאושש מהר',top:'ההמבורגרים נמשכים אליך: תופס מרחוק',crown:'דוחף חזק יותר, 💥 נטען מהר'},hp:{diner:{cap:'רץ מהר יותר ב־12%',ushanka:'דוחפים אותך חלש יותר, מתאושש מהר',top:'ההמבורגרים נמשכים אליך: תופס מרחוק',crown:'דוחף חזק יותר, 💥 נטען מהר'},school:{cap:'זריז: עומד בפינה חצי זמן',ushanka:'בעיטה ארוכה: מגיע למורה מרחוק',top:'נינג׳ה: המורים שמים לב אליך רק מקרוב',crown:'בעיטה מלכותית: כל בעיטה שלישית שווה כפול'},soccer:{cap:'תותח: הבעיטה חזקה יותר ב־25%',ushanka:'חומה: כמעט אי אפשר להזיז אותך',top:'רגל ארוכה: בועט בכדור מרחוק',crown:'השוער מפספס את הבעיטות שלך יותר'},snow:{cap:'יד מהירה: כדורי השלג נטענים מהר',ushanka:'אוזניים חמות: מתאושש מהר אחרי פגיעה',top:'צלף: כדורי השלג שלך עפים מהר ורחוק יותר',crown:'כל כדור שלג רביעי הוא מגה־כדור'},box:{cap:'זז מהר יותר ב־12%',ushanka:'מכות נמוכות כואבות לך חצי',top:'השופט רואה את המכה הנמוכה שלך רק מקרוב',crown:'המכות שלך חזקות ב־25%'},villain:{cap:'רץ מהר יותר ב־12%',ushanka:'מלכודות מחזיקות אותך חצי זמן',top:'המפתחות נמשכים אליך: תופס מרחוק',crown:'טעית בתפיסה — קופא רק ל־2 שניות'}},tie:'תיקו! סיבוב נוסף',out:'יוצאים',stay:'ממשיכים לשחק',nextR:'הסיבוב הבא בעוד כמה שניות…',medalWin:n=>`🏅 +1 מדליה! סה״כ אצלך: ${n}`,medalHave:n=>`המדליות שלך: 🏅 ${n}`,watching:'👀 יצאת. תראה מי ינצח!',hostGone:'המארגן יצא מהמשחק',noRoom:'החדר לא עונה. כנראה המארגן כבר סגר את המשחק.',ownHint:'צרו חדר משלכם והזמינו חברים. זה בחינם.',allGames:'🎮 כל המשחקים',leaveHost:'לצאת? המשחק ייגמר לכולם.',mt:{diner:'מרוץ ההמבורגרים',school:'Teacher Kick',soccer:'בומברדיר',snow:'קרב כדורי שלג',box:'אגרוף משוגע',villain:'מי המרושע?'},
+  mtag:{diner:'עד 4 שחקנים. 7 המבורגרים בסיבוב: תופסים ודוחפים! מי שפחות מהמוביל — יוצא, עד שנשאר אלוף אחד.',school:'עד 4 שחקנים. מתגנבים למורה מאחור ונותנים בעיטה בטוסיק! המורה רואה אתכם — לפינה. מי שהכי הרבה — אלוף.',soccer:'עד 4 שחקנים. כדור אחד, שער גדול ושוער המורה להתעמלות. תבקיעו הכי הרבה ותהיו אלופים!',snow:'עד 4 שחקנים. כדורי שלג, אנשי שלג למחסה וכדור זהב מגה. המדויק ביותר — אלוף!',box:'עד 4 שחקנים, כולם נגד כולם. תכו, תתחמקו ותנו מכה נמוכה כשהשופט לא מסתכל. נתפסתם פעמיים — פסילה! האחרון שעומד מנצח.',villain:'עד 4 שחקנים. אחד מכם הוא מרושע סודי שמחביא מלכודות. אספו 15 מפתחות, היזהרו מהמלכודות ותפסו את המרושע!'},
+  inviteM:{diner:'בואו ל«מרוץ ההמבורגרים» 🍔 מי יאסוף הכי הרבה? ',school:'בואו ל«Teacher Kick» 🏫 מי ייתן למורים הכי הרבה בעיטות? ',soccer:'בואו ל«בומברדיר» ⚽ מי יבקיע הכי הרבה? ',snow:'בואו ל«קרב כדורי שלג» ❄ מי הכי מדויק? ',box:'בואו לאגרוף! 🥊 האחרון שעומד מנצח: ',villain:'בואו ל«מי המרושע?» 🦹 מצאו את המרושע לפני שהוא ילכוד אתכם: '},
   other:'Русский',
   names:{girl:'הילדה',fat:'השמנמן',tall:'הגבוה',nerd:'המשקפופר'},
   perks:{girl:'מהירה וזריזה',fat:'איטי, אבל דוחף הכי חזק',tall:'הכי מהיר, דוחף חלש',nerd:'תופס המבורגרים מרחוק'}}};
@@ -210,9 +210,9 @@ const rid=()=>Math.random().toString(36).slice(2,10);
 const clamp=(v,a,b)=>v<a?a:v>b?b:v;
 const me={id:rid(),name:''};try{me.name=localStorage.getItem('burger-name')||''}catch(e){}
 /* ===== game switch (shared) ===== */
-const GN={en:{donkey:"Who's the Donkey?",diner:'Burger Rush',school:'Teacher Kick',soccer:'Bombardier',snow:'Snow Battle',box:'Boxing',villain:"Who's the Villain?",sw:'Switch game: everyone stays in the room',now:'Game'},
-  ru:{donkey:'Кто осёл?',diner:'Бургер-гонка',school:'Teacher Kick',soccer:'Бомбардир',snow:'Снежная битва',box:'Бокс',villain:'Кто злодей?',sw:'Сменить игру: все остаются в комнате',now:'Игра'},
-  he:{donkey:'מי חמור?',diner:'מרוץ ההמבורגרים',school:'Teacher Kick',soccer:'בומברדיר',snow:'קרב כדורי שלג',box:'אגרוף',villain:'מי הנבל?',sw:'להחליף משחק: כולם נשארים בחדר',now:'משחק'}};
+const GN={en:{donkey:"Who's the Donkey?",diner:'Burger Rush',school:'Teacher Kick',soccer:'Bombardier',snow:'Snow Battle',box:'Crazy Boxing',villain:"Who's the Villain?",sw:'Switch game: everyone stays in the room',now:'Game'},
+  ru:{donkey:'Кто осёл?',diner:'Бургер-гонка',school:'Teacher Kick',soccer:'Бомбардир',snow:'Снежная битва',box:'Сумасшедший бокс',villain:'Кто злодей?',sw:'Сменить игру: все остаются в комнате',now:'Игра'},
+  he:{donkey:'מי חמור?',diner:'מרוץ ההמבורגרים',school:'Teacher Kick',soccer:'בומברדיר',snow:'קרב כדורי שלג',box:'אגרוף משוגע',villain:'מי המרושע?',sw:'להחליף משחק: כולם נשארים בחדר',now:'משחק'}};
 const GI={donkey:'🫏',diner:'🍔',school:'🦶',soccer:'⚽',snow:'❄',box:'🥊',villain:'🦹'},GLIST=['donkey','diner','school','soccer','snow','box','villain'];
 const NAV=new URLSearchParams(location.search);let MK=(NAV.get('mk')||'').toUpperCase().replace(/[^A-Z0-9]/g,'').slice(0,6);const AUTO=NAV.get('auto')==='1'||!!MK;let navNm=false,gotoing=false;
 function gameUrl(g){return g==='donkey'?'../donkey/?':'../burger/?loc='+g+'&'}

diff --git a/index.html b/index.html
@@ -90,7 +90,7 @@ const L={
   school:{t:'Teacher Kick',d:'Sneak up behind the teacher and kick! Get spotted — straight to the corner.',tags:['👥 1–4 players + bots','⏱ 30 s rounds','🦶 Sneak']},
   soccer:{t:'Bombardier',d:'One ball, a big goal and the PE teacher in goal. Tackle, shoot and shout «GOOOAL!».',tags:['👥 1–4 players + bots','⏱ 45 s rounds','⚽ Score']},
   villain:{t:"Who's the Villain?",d:'A secret villain hides nasty traps: banana peels, glue, cake in the face. Collect 15 keys, dodge the traps and catch the villain. Two maps: a fun park and a space station.',tags:['👥 1–4 players + bots','⏱ 3 rounds × 60 s','🦹 Find the villain']},
-  box:{t:'Boxing',d:'All against all in the ring. Punch, dodge and land a sneaky low blow while the referee looks away. Caught twice and you are out!',tags:['👥 1–4 players + bots','⏱ 45 s fight','🥊 Fight']},
+  box:{t:'Crazy Boxing',d:'All against all in the ring. Punch, dodge and land a sneaky low blow while the referee looks away. Caught twice and you are out!',tags:['👥 1–4 players + bots','⏱ 45 s fight','🥊 Fight']},
   snow:{t:'Snow Battle',d:'Throw snowballs, hide behind snowmen and grab the golden mega snowball for +2.',tags:['👥 1–4 players + bots','⏱ 40 s rounds','❄ Aim']},
   how:'How to start',steps:[['Pick a game','Tap «Play» on any card.'],['Create a room','Type your name and tap «Create game».'],['Invite friends','The WhatsApp button sends the link to your group. Done!']],
   bandT:'Share with friends',bandP:'One link for all the games. Works on any phone, tablet and computer.',share:'Send on WhatsApp',
@@ -103,7 +103,7 @@ const L={
   school:{t:'Teacher Kick',d:'Подкрадись к учителю сзади и отвесь поджопник! Попадёшься ему на глаза — в угол.',tags:['👥 1–4 игрока + боты','⏱ 30 сек раунд','🦶 Подкрадывайся']},
   soccer:{t:'Бомбардир',d:'Один мяч, большие ворота и вратарь-физрук. Отбирай мяч, бей и кричи «ГОООЛ!».',tags:['👥 1–4 игрока + боты','⏱ 45 сек раунд','⚽ Забивай']},
   villain:{t:'Кто злодей?',d:'Тайный злодей прячет капканы с гадостями: банановая кожура, клей, торт в лицо. Соберите 15 ключей, обходите ловушки и поймайте злодея. Две карты: парк аттракционов и космическая станция.',tags:['👥 1–4 игрока + боты','⏱ 3 раунда по 60 сек','🦹 Найди злодея']},
-  box:{t:'Бокс',d:'Все против всех на ринге. Бей, уворачивайся и бей по яйцам, пока судья отвернулся. Заметит 2 раза — дисквалификация!',tags:['👥 1–4 игрока + боты','⏱ бой 45 сек','🥊 Драка']},
+  box:{t:'Сумасшедший бокс',d:'Все против всех на ринге. Бей, уворачивайся и бей по яйцам, пока судья отвернулся. Заметит 2 раза — дисквалификация!',tags:['👥 1–4 игрока + боты','⏱ бой 45 сек','🥊 Драка']},
   snow:{t:'Снежная битва',d:'Кидай снежки, прячься за снеговиками и хватай золотой мега-снежок на +2.',tags:['👥 1–4 игрока + боты','⏱ 40 сек раунд','❄ Целься']},
   how:'Как начать',steps:[['Выбери игру','Нажми «Играть» на любой карточке.'],['Создай комнату','Напиши имя и нажми «Создать игру».'],['Позови друзей','Кнопка WhatsApp отправит ссылку в группу. Готово!']],
   bandT:'Поделись с друзьями',bandP:'Одна ссылка на все игры. Работает на любом телефоне, планшете и компьютере.',share:'Отправить в WhatsApp',
@@ -115,8 +115,8 @@ const L={
   burger:{t:'מרוץ ההמבורגרים',d:'תופסים המבורגרים הכי מהר ודוחפים יריבים. סיבובי הדחה עד שנשאר אלוף אחד.',tags:['👥 1–4 שחקנים + בוטים','⏱ סיבוב 30 שנ׳','🍔 אוספים']},
   school:{t:'Teacher Kick',d:'מתגנבים למורה מאחור ונותנים בעיטה בטוסיק! המורה רואה אתכם — לפינה.',tags:['👥 1–4 שחקנים + בוטים','⏱ סיבוב 30 שנ׳','🦶 מתגנבים']},
   soccer:{t:'בומברדיר',d:'כדור אחד, שער גדול והמורה להתעמלות בשער. חוטפים, בועטים וצועקים «גוללל!».',tags:['👥 1–4 שחקנים + בוטים','⏱ סיבוב 45 שנ׳','⚽ מבקיעים']},
-  villain:{t:'מי הנבל?',d:'נבל סודי מחביא מלכודות: קליפת בננה, דבק, עוגה בפרצוף. אספו 15 מפתחות, התחמקו מהמלכודות ותפסו את הנבל. שתי מפות: פארק שעשועים ותחנת חלל.',tags:['👥 1–4 שחקנים + בוטים','⏱ 3 סיבובים של 60 שניות','🦹 מצאו את הנבל']},
-  box:{t:'אגרוף',d:'כולם נגד כולם בזירה. תכו, תתחמקו ותנו מכה נמוכה כשהשופט לא מסתכל. נתפסתם פעמיים — פסילה!',tags:['👥 1–4 שחקנים + בוטים','⏱ קרב של 45 שניות','🥊 קרב']},
+  villain:{t:'מי המרושע?',d:'מרושע סודי מחביא מלכודות: קליפת בננה, דבק, עוגה בפרצוף. אספו 15 מפתחות, התחמקו מהמלכודות ותפסו את המרושע. שתי מפות: פארק שעשועים ותחנת חלל.',tags:['👥 1–4 שחקנים + בוטים','⏱ 3 סיבובים של 60 שניות','🦹 מצאו את המרושע']},
+  box:{t:'אגרוף משוגע',d:'כולם נגד כולם בזירה. תכו, תתחמקו ותנו מכה נמוכה כשהשופט לא מסתכל. נתפסתם פעמיים — פסילה!',tags:['👥 1–4 שחקנים + בוטים','⏱ קרב של 45 שניות','🥊 קרב']},
   snow:{t:'קרב כדורי שלג',d:'זורקים כדורי שלג, מתחבאים מאחורי אנשי שלג ותופסים את כדור הזהב לנקודה כפולה.',tags:['👥 1–4 שחקנים + בוטים','⏱ סיבוב 40 שנ׳','❄ מכוונים']},
   how:'איך מתחילים',steps:[['בוחרים משחק','לוחצים «לשחק» על כל כרטיס.'],['יוצרים חדר','כותבים שם ולוחצים «יצירת משחק».'],['מזמינים חברים','כפתור הוואטסאפ שולח קישור לקבוצה. זהו!']],
   bandT:'שתפו עם חברים',bandP:'קישור אחד לכל המשחקים. עובד בכל טלפון, טאבלט ומחשב.',share:'לשלוח בוואטסאפ',

diff --git a/donkey/index.html b/donkey/index.html
@@ -123,9 +123,9 @@ const rid=()=>Math.random().toString(36).slice(2,10);
 const me={id:rid(),name:''};
 try{me.name=localStorage.getItem('hamor-name')||''}catch(e){}
 /* ===== game switch (shared) ===== */
-const GN={en:{donkey:"Who's the Donkey?",diner:'Burger Rush',school:'Teacher Kick',soccer:'Bombardier',snow:'Snow Battle',box:'Boxing',villain:"Who's the Villain?",sw:'Switch game: everyone stays in the room',now:'Game'},
-  ru:{donkey:'Кто осёл?',diner:'Бургер-гонка',school:'Teacher Kick',soccer:'Бомбардир',snow:'Снежная битва',box:'Бокс',villain:'Кто злодей?',sw:'Сменить игру: все остаются в комнате',now:'Игра'},
-  he:{donkey:'מי חמור?',diner:'מרוץ ההמבורגרים',school:'Teacher Kick',soccer:'בומברדיר',snow:'קרב כדורי שלג',box:'אגרוף',villain:'מי הנבל?',sw:'להחליף משחק: כולם נשארים בחדר',now:'משחק'}};
+const GN={en:{donkey:"Who's the Donkey?",diner:'Burger Rush',school:'Teacher Kick',soccer:'Bombardier',snow:'Snow Battle',box:'Crazy Boxing',villain:"Who's the Villain?",sw:'Switch game: everyone stays in the room',now:'Game'},
+  ru:{donkey:'Кто осёл?',diner:'Бургер-гонка',school:'Teacher Kick',soccer:'Бомбардир',snow:'Снежная битва',box:'Сумасшедший бокс',villain:'Кто злодей?',sw:'Сменить игру: все остаются в комнате',now:'Игра'},
+  he:{donkey:'מי חמור?',diner:'מרוץ ההמבורגרים',school:'Teacher Kick',soccer:'בומברדיר',snow:'קרב כדורי שלג',box:'אגרוף משוגע',villain:'מי המרושע?',sw:'להחליף משחק: כולם נשארים בחדר',now:'משחק'}};
 const GI={donkey:'🫏',diner:'🍔',school:'🦶',soccer:'⚽',snow:'❄',box:'🥊',villain:'🦹'},GLIST=['donkey','diner','school','soccer','snow','box','villain'];
 const NAV=new URLSearchParams(location.search);let MK=(NAV.get('mk')||'').toUpperCase().replace(/[^A-Z0-9]/g,'').slice(0,6);const AUTO=NAV.get('auto')==='1'||!!MK;let navNm=false,gotoing=false;
 function gameUrl(g){return g==='donkey'?'../donkey/?':'../burger/?loc='+g+'&'}

diff --git a/box/index.html b/box/index.html
@@ -1,10 +1,10 @@
 <!doctype html>
 <html lang="en"><head><meta charset="utf-8"><meta name="viewport" content="width=device-width,initial-scale=1">
-<title>Boxing 🥊 · BYD Shorties</title>
-<meta property="og:type" content="website"><meta property="og:title" content="Boxing 🥊 · BYD Shorties"><meta property="og:description" content="All against all in the ring. Low blows only when the referee looks away! Up to 4 players online.">
+<title>Crazy Boxing 🥊 · BYD Shorties</title>
+<meta property="og:type" content="website"><meta property="og:title" content="Crazy Boxing 🥊 · BYD Shorties"><meta property="og:description" content="All against all in the ring. Low blows only when the referee looks away! Up to 4 players online.">
 <meta property="og:url" content="https://byd-shorties.pages.dev/box/">
 <meta property="og:image" content="https://byd-shorties.pages.dev/box/og.png"><meta property="og:image:width" content="1200"><meta property="og:image:height" content="630">
 <meta name="twitter:card" content="summary_large_image"><meta name="twitter:image" content="https://byd-shorties.pages.dev/box/og.png">
 <script>location.replace('../burger/'+(location.search?location.search+'&':'?')+'loc=box')</script>
 <style>body{background:#1b1220;color:#fff6ec;font-family:system-ui,sans-serif;display:grid;place-items:center;height:100vh;margin:0}a{color:#ffc531}</style>
-</head><body><a href="../burger/?loc=box">Boxing 🥊</a></body></html>
+</head><body><a href="../burger/?loc=box">Crazy Boxing 🥊</a></body></html>
